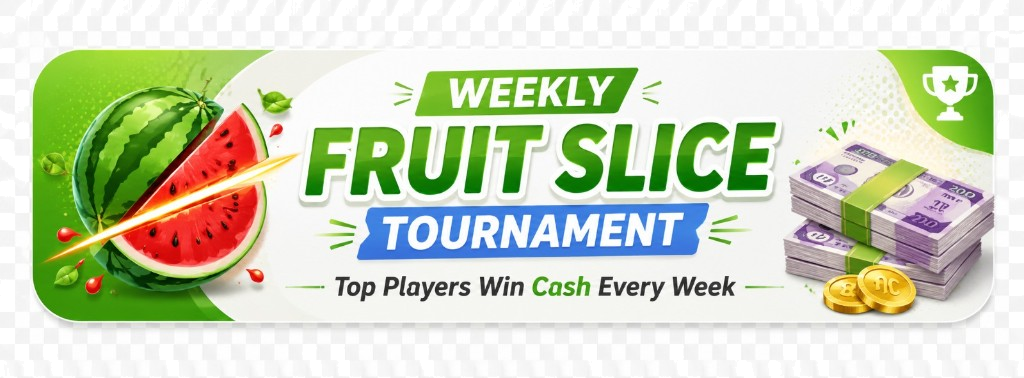
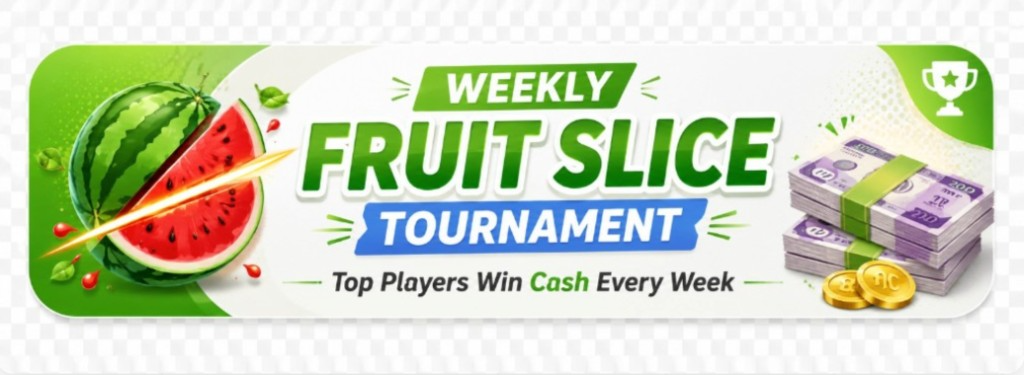
update memory match - phase 1 pre-play tournament panel

diff --git a/src/hub/hub.css b/src/hub/hub.css
@@ -324,8 +324,23 @@ body {
 .promo-section { margin-bottom: 0.75rem; }
 .player-bar-section { margin-top: 0.35rem; }
 .promo-slide { color: #fff; font-weight: 800; text-align: center; padding: 1.05rem 1.2rem; border-radius: 18px; font-size: 1.04rem; box-shadow: var(--shadow-md); }
-.promo-slide-img { padding: 0; overflow: visible; background: transparent; box-shadow: none; border-radius: 18px; line-height: 0; }
-.promo-slide-img .promo-banner-img { width: 100%; height: auto; display: block; border-radius: 18px; object-fit: contain; box-shadow: var(--shadow-md); vertical-align: top; }
+.promo-slide-img {
+  padding: 0;
+  overflow: hidden;
+  background: #fff;
+  box-shadow: var(--shadow-md);
+  border-radius: 18px;
+  line-height: 0;
+}
+.promo-slide-img .promo-banner-img {
+  width: 100%;
+  height: auto;
+  display: block;
+  border-radius: 18px;
+  object-fit: contain;
+  vertical-align: top;
+  background: #fff;
+}
 .promo-dots { display: flex; justify-content: center; gap: 6px; margin-top: 9px; }
 .promo-dot { width: 7px; height: 7px; border-radius: 50%; background: var(--line); transition: width 0.2s, background 0.2s; cursor: pointer; }
 .promo-track { cursor: grab; touch-action: pan-y; user-select: none; }
@@ -427,9 +442,165 @@ body {
 }
 .game-search:focus { outline: 2px solid var(--accent); border-color: var(--accent); }
 
-/* Light-green game cards: a soft green cover with a white "app icon" tile, so
-   every game reads as one cohesive bright set. The cover is the dominant image
-   area; the title block below stays tight. */
+/* Poster-style game cards (tournament showcase layout) */
+.cat-shelf .game-card--poster {
+  width: auto;
+  background: #fff;
+  border: 1px solid #e8efe0;
+  border-radius: 20px;
+  overflow: hidden;
+  box-shadow: 0 8px 24px rgba(20, 45, 14, 0.1);
+  display: flex;
+  flex-direction: column;
+}
+.cat-shelf .game-card--poster:hover {
+  transform: translateY(-5px);
+  box-shadow: 0 16px 34px rgba(20, 45, 14, 0.16);
+}
+.game-card--poster .gc-thumb {
+  position: relative;
+  aspect-ratio: 4 / 3;
+  background: linear-gradient(160deg, #eaf8d8 0%, #cdeda4 55%, #b6e487 100%);
+  overflow: hidden;
+}
+.game-card--poster .gc-thumb::after {
+  content: '';
+  position: absolute;
+  inset: 0;
+  background: radial-gradient(120% 90% at 50% 0%, rgba(255,255,255,0.22), transparent 62%);
+  pointer-events: none;
+}
+.game-card--poster .gc-thumb-cover .gc-cover {
+  position: absolute;
+  inset: 0;
+  width: 100%;
+  height: 100%;
+  object-fit: cover;
+  object-position: center;
+  display: block;
+}
+.game-card--poster .gc-glyph {
+  position: relative;
+  z-index: 1;
+  font-size: 3.4rem;
+  width: 4.8rem;
+  height: 4.8rem;
+  display: grid;
+  place-items: center;
+  background: #fff;
+  border-radius: 26%;
+  box-shadow: 0 8px 18px rgba(47, 124, 14, 0.22), inset 0 0 0 1px rgba(47, 124, 14, 0.06);
+}
+.gc-ribbon {
+  position: absolute;
+  top: 0.55rem;
+  left: 0;
+  z-index: 3;
+  display: inline-flex;
+  align-items: center;
+  gap: 0.25rem;
+  padding: 0.28rem 0.75rem 0.28rem 0.55rem;
+  font-size: 0.68rem;
+  font-weight: 800;
+  letter-spacing: 0.03em;
+  text-transform: uppercase;
+  color: #fff;
+  border-radius: 0 8px 8px 0;
+  box-shadow: 0 4px 10px rgba(0,0,0,0.18);
+}
+.gc-ribbon--monthly { background: linear-gradient(135deg, #f2c94c, #d4a017); color: #1a2230; }
+.gc-ribbon--weekly { background: linear-gradient(135deg, #2f8fe6, #1f5fc4); }
+.gc-ribbon--daily { background: linear-gradient(135deg, #6b4cff, #4a2fd4); }
+.gc-ribbon--free { background: linear-gradient(135deg, #5a6472, #3a4452); }
+.gc-prize-badge {
+  position: absolute;
+  right: 0.45rem;
+  bottom: 0.45rem;
+  z-index: 3;
+  max-width: calc(100% - 0.9rem);
+  padding: 0.28rem 0.55rem;
+  border-radius: 999px;
+  font-size: 0.58rem;
+  font-weight: 900;
+  letter-spacing: 0.02em;
+  color: #fff;
+  white-space: nowrap;
+  overflow: hidden;
+  text-overflow: ellipsis;
+  box-shadow: 0 4px 12px rgba(0,0,0,0.2);
+}
+.gc-prize-badge--monthly { background: linear-gradient(135deg, #f2c94c, #c98a00); color: #1a2230; }
+.gc-prize-badge--weekly { background: linear-gradient(135deg, #2f8fe6, #1a5fa8); }
+.gc-prize-badge--daily { background: linear-gradient(135deg, #6b4cff, #4a2fd4); }
+.game-card--poster .gc-live {
+  top: 0.55rem;
+  right: 2.4rem;
+  z-index: 3;
+}
+.game-card--poster .gc-info {
+  top: 0.5rem;
+  right: 0.5rem;
+}
+.game-card--poster .gc-body {
+  padding: 0.75rem 0.8rem 0.85rem;
+  text-align: left;
+  display: flex;
+  flex-direction: column;
+  gap: 0.2rem;
+  flex: 1;
+}
+.game-card--poster .gc-title {
+  margin: 0;
+  font-size: 1.02rem;
+  font-weight: 900;
+  color: #14213a;
+  letter-spacing: -0.01em;
+}
+.game-card--poster .gc-sub {
+  margin: 0;
+  font-size: 0.74rem;
+  font-weight: 700;
+}
+.gc-sub--monthly { color: #3f8f12; }
+.gc-sub--weekly { color: #1a5fa8; }
+.gc-sub--daily { color: #6b4cff; }
+.gc-sub--free { color: var(--muted); }
+.gc-play-btn {
+  display: flex;
+  align-items: center;
+  justify-content: space-between;
+  gap: 0.5rem;
+  width: 100%;
+  margin-top: 0.55rem;
+  padding: 0.55rem 0.55rem 0.55rem 0.85rem;
+  border-radius: 999px;
+  color: #fff;
+  font-size: 0.86rem;
+  font-weight: 800;
+  box-shadow: 0 6px 16px rgba(0,0,0,0.14);
+  transition: filter 0.12s, transform 0.1s;
+}
+.gc-play-btn--monthly { background: linear-gradient(135deg, #6cc52f, #4f9e16); }
+.gc-play-btn--weekly { background: linear-gradient(135deg, #2f8fe6, #1f5fc4); }
+.gc-play-btn--daily { background: linear-gradient(135deg, #6b4cff, #4a2fd4); }
+.gc-play-btn--free { background: linear-gradient(135deg, #2f8fe6, #1f5fc4); }
+.gc-play-arrow {
+  width: 1.65rem;
+  height: 1.65rem;
+  border-radius: 50%;
+  background: #fff;
+  display: grid;
+  place-items: center;
+  font-size: 0.62rem;
+  flex-shrink: 0;
+}
+.gc-play-btn--monthly .gc-play-arrow { color: #4f9e16; }
+.gc-play-btn--weekly .gc-play-arrow { color: #1f5fc4; }
+.gc-play-btn--daily .gc-play-arrow { color: #6b4cff; }
+.gc-play-btn--free .gc-play-arrow { color: #1f5fc4; }
+.game-card--poster:hover .gc-play-btn { filter: brightness(1.05); transform: translateY(-1px); }
+
+/* Legacy card chrome kept for modals / locked states */
 .cat-shelf .game-card { width: auto; background: #f6fcef; }
 .cat-shelf .game-card:hover { box-shadow: 0 14px 30px rgba(47, 124, 14, 0.2); }
 .gc-thumb { aspect-ratio: 1 / 1;

diff --git a/src/hub/main.ts b/src/hub/main.ts
@@ -287,41 +287,96 @@ const howToText = (g: GameMeta): { en: string; am: string } =>
 function howTo(g: GameMeta): string { const h = howToText(g); return lang() === 'am' ? h.am : h.en; }
 
 
-function tournamentPrizeSummary(g: GameMeta): string {
+/** Default catalog art when a game has no explicit `cover`. */
+const GAME_COVER: Record<string, string> = {
+  'orbit-blast': '/orbit_blast.webp',
+  'merge-2048': '/merge_2048.webp',
+  'temple-dash': '/temple_dash.webp',
+  'candy-crunch': '/candy_saga.webp',
+  'brick-blitz': '/brick_blitz.webp',
+  'fruit-slice': '/fruit_slice.webp',
+  'sky-hopper': '/sky_hopper.webp',
+  'bubble-pop': '/bubble_pop.webp',
+  'memory-match': '/memory_match.webp',
+  'tap-game': '/tap_game.webp',
+  'lucky-box': '/lucky_boxes.webp',
+  'spin-wheel': '/spin_wheel.webp',
+  'luckyslot': '/lucky_slot.webp',
+  'popblast': '/candy_blast.webp',
+  'ethiopian-quiz': '/ethiopian_quiz.webp',
+  'sudoku': '/sudoku.webp',
+  'spell': '/spell_quiz.webp',
+  'vocab': '/vocabulary_trivia.webp',
+  'rhyme': '/rhyme_time.webp',
+  'target24': '/target_24.webp',
+  'crosssum': '/cross_sum.webp',
+  'logic': '/logic_grid.webp',
+  'sequence': '/sequence.webp',
+};
+
+function gameCover(g: GameMeta): string | undefined {
+  return g.cover ?? GAME_COVER[g.id];
+}
+
+function cadenceKey(g: GameMeta): TournamentCadence | 'free' {
+  if (g.mode !== 'tournament') return 'free';
+  return g.tournament ?? 'monthly';
+}
+
+function cadenceRibbon(g: GameMeta): string {
+  const cadence = cadenceKey(g);
+  if (cadence === 'free') {
+    return `<span class="gc-ribbon gc-ribbon--free">🎮 ${t('arc.free')}</span>`;
+  }
+  const label = t(cadence === 'daily' ? 'td.daily' : cadence === 'weekly' ? 'td.weekly' : 'td.monthly');
+  return `<span class="gc-ribbon gc-ribbon--${cadence}">🏆 ${label}</span>`;
+}
+
+function cadenceSubtitle(g: GameMeta): string {
+  const cadence = cadenceKey(g);
+  if (cadence === 'free') return escapeHtml(category(g));
+  if (cadence === 'weekly') return t('hub.weeklyTournament');
+  if (cadence === 'daily') return t('hub.dailyTournament');
+  return t('hub.monthlyTournament');
+}
+
+function topPrizeBadge(g: GameMeta): string {
   const prizes = TOURNAMENT_ETB_PRIZES[g.id];
   if (!prizes?.length) return '';
   const top = formatEtbPrize(prizes[0], lang());
-  const fifth = formatEtbPrize(prizes[prizes.length - 1], lang());
-  return `<p class="gc-prize">🎁 ${top} – ${fifth}</p>`;
+  const cadence = g.tournament ?? 'monthly';
+  return `<span class="gc-prize-badge gc-prize-badge--${cadence}">${t('hub.topPrize')} ${escapeHtml(top)}</span>`;
 }
 
 function gameCard(g: GameMeta): string {
-  const modeTag = g.mode === 'tournament'
-    ? `<span class="gc-tag tournament gc-cadence-${g.tournament ?? 'monthly'}">🏆 ${t(
-      g.tournament === 'daily' ? 'td.daily' : g.tournament === 'weekly' ? 'td.weekly' : 'td.monthly',
-    )}</span>`
-    : `<span class="gc-tag free">${t('arc.free')}</span>`;
-  // A tournament game with a live window gets the pulsing "Live" badge on its art.
+  const cadence = cadenceKey(g);
+  const cover = gameCover(g);
   const tour = g.mode === 'tournament' ? getTournamentForGame(g.id) : undefined;
   const liveBadge = tour && tournamentState(tour) === 'live'
     ? `<span class="gc-live live-dot">● ${t('hub.live')}</span>` : '';
+  const thumbStyle = cover
+    ? ''
+    : ` style="background:linear-gradient(145deg,${g.thumb[0]},${g.thumb[1]})"`;
   const thumb = `
-      <div class="gc-thumb${g.cover ? ' gc-thumb-cover' : ''}">
-        ${g.cover
-          ? `<img class="gc-cover" src="${g.cover}" alt="" loading="lazy" />`
+      <div class="gc-thumb gc-thumb-cover"${thumbStyle}>
+        ${cover
+          ? `<img class="gc-cover" src="${cover}" alt="" loading="lazy" />`
           : `<span class="gc-glyph">${g.icon}</span>`}
-        ${modeTag}
+        ${cadenceRibbon(g)}
         ${liveBadge}
-        <button class="gc-info" data-howto="${g.id}" aria-label="${t('hub.howToPlay')}">?</button>
+        ${g.mode === 'tournament' ? topPrizeBadge(g) : ''}
+        <button type="button" class="gc-info" data-howto="${g.id}" aria-label="${t('hub.howToPlay')}">?</button>
       </div>`;
   return `
-    <a class="game-card" href="${g.route}">
+    <a class="game-card game-card--poster game-card--${cadence}" href="${g.route}">
       ${thumb}
       <div class="gc-body">
-        <h4>${escapeHtml(name(g))}</h4>
-        <p class="gc-cat">${escapeHtml(category(g))}</p>
-        ${g.mode === 'tournament' ? tournamentPrizeSummary(g) : ''}
-        <span class="gc-play">▶ ${t('hub.play')}</span>
+        <h4 class="gc-title">${escapeHtml(name(g))}</h4>
+        <p class="gc-sub gc-sub--${cadence}">${cadenceSubtitle(g)}</p>
+        <span class="gc-play-btn gc-play-btn--${cadence}">
+          <span class="gc-play-label">${t('hub.playNow')}</span>
+          <span class="gc-play-arrow" aria-hidden="true">▶</span>
+        </span>
       </div>
     </a>`;
 }

diff --git a/src/i18n/index.ts b/src/i18n/index.ts
@@ -187,7 +187,11 @@ const en = {
   'hub.pool': 'Prize pool',
   'hub.register': 'Register to play',
   'hub.entered': 'Entered',
-  'hub.playNow': 'Play',
+  'hub.playNow': 'Play Now',
+  'hub.topPrize': 'TOP PRIZE',
+  'hub.monthlyTournament': 'Monthly Tournament',
+  'hub.weeklyTournament': 'Weekly Tournament',
+  'hub.dailyTournament': 'Daily Tournament',
   'hub.confirmEntry': 'Join tournament',
   'hub.confirm': 'Confirm',
   'hub.cancel': 'Cancel',
@@ -570,7 +574,11 @@ const am: Dict = {
   'hub.pool': 'የሽልማት ገንዘብ',
   'hub.register': 'ለመጫወት ይመዝገቡ',
   'hub.entered': 'ገብተዋል',
-  'hub.playNow': 'ይጫወቱ',
+  'hub.playNow': 'አሁን ይጫወቱ',
+  'hub.topPrize': 'ከፍተኛ ሽልማት',
+  'hub.monthlyTournament': 'ወርሃዊ ውድድር',
+  'hub.weeklyTournament': 'ሳምንታዊ ውድድር',
+  'hub.dailyTournament': 'ዕለታዊ ውድድር',
   'hub.confirmEntry': 'ውድድሩን ይቀላቀሉ',
   'hub.confirm': 'አረጋግጥ',
   'hub.cancel': 'ይቅር',

diff --git a/src/platform/catalog.ts b/src/platform/catalog.ts
@@ -110,6 +110,7 @@ const ALL_GAMES: GameMeta[] = [
     nameEn: 'Fruit Slice', nameAm: 'ፍሩት ስላይስ',
     genreEn: 'Arcade · Tournament', genreAm: 'አርኬድ · ውድድር',
     mode: 'tournament', tournament: 'weekly', icon: '🍉', accent: '#46c05a', thumb: ['#236f2c', '#0a2410'],
+    cover: '/fruit_slice.webp',
     scoreEn: 'Score', scoreAm: 'ነጥብ',
   },
   {
@@ -136,6 +137,7 @@ const ALL_GAMES: GameMeta[] = [
     nameEn: 'Memory Match', nameAm: 'ማች ማስታወሻ',
     genreEn: 'Puzzle · Tournament', genreAm: 'እንቆቅልሽ · ውድድር',
     mode: 'tournament', tournament: 'monthly', stable: 'v1', icon: '🧩', accent: '#ff6b9d', thumb: ['#8c2b5c', '#0b1521'],
+    cover: '/memory_match.webp',
     scoreEn: 'Score', scoreAm: 'ነጥብ',
     play: { winPoints: 180, winRate: 50 },
   },